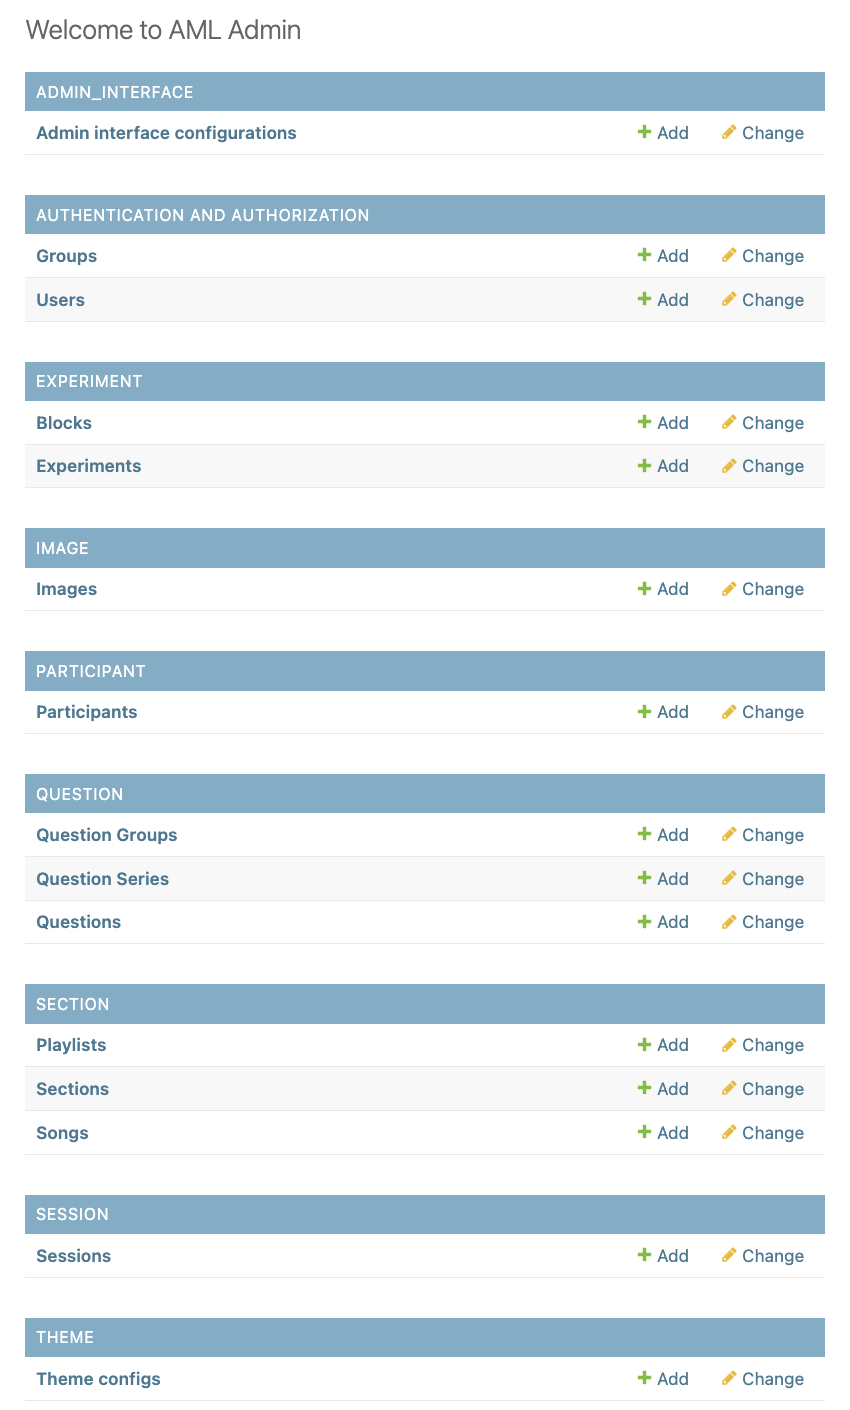
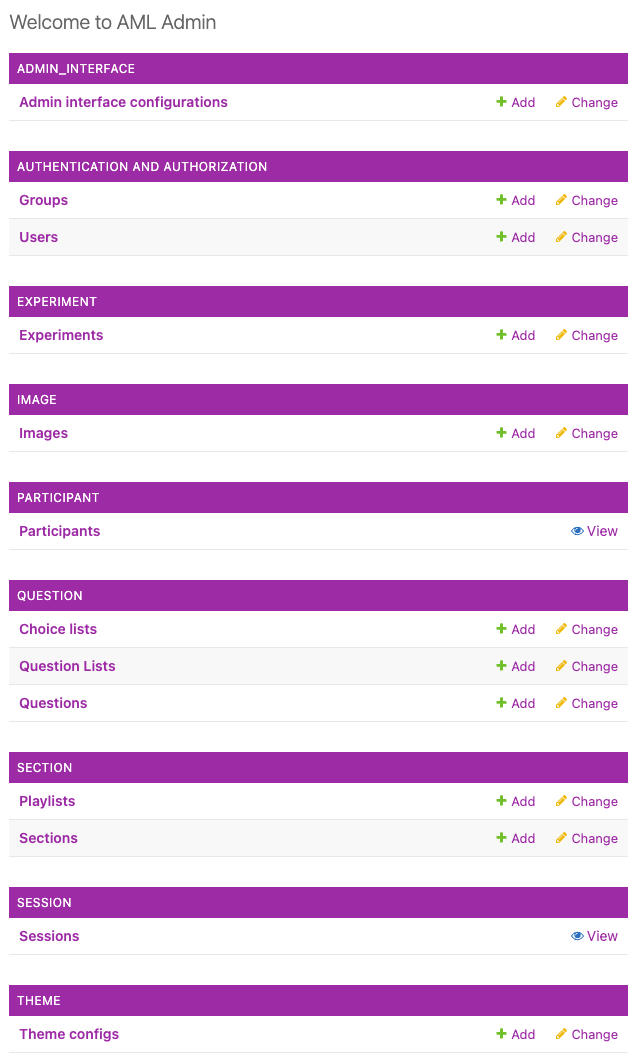
chore: replace admin interface screenshots

diff --git a/backend/section/admin.py b/backend/section/admin.py
@@ -35,11 +35,6 @@ class SectionAdmin(admin.ModelAdmin):
     list_select_related = ()
 
 
-admin.site.register(Section, SectionAdmin)
-
-# @admin.register(Playlist)
-
-
 class SongAdmin(admin.ModelAdmin):
     list_per_page = 50
     list_display = ("artist", "name")
@@ -48,8 +43,9 @@ class SongAdmin(admin.ModelAdmin):
     # Prevent large inner join
     list_select_related = ()
 
-
-admin.site.register(Song, SongAdmin)
+    def has_module_permission(self, request):
+        '''Prevents the admin from being shown in the sidebar.'''
+        return False
 
 
 class PlaylistAdmin(InlineActionsModelAdminMixin, admin.ModelAdmin):
@@ -226,3 +222,5 @@ class PlaylistAdmin(InlineActionsModelAdminMixin, admin.ModelAdmin):
 
 
 admin.site.register(Playlist, PlaylistAdmin)
+admin.site.register(Section, SectionAdmin)
+admin.site.register(Song, SongAdmin)
